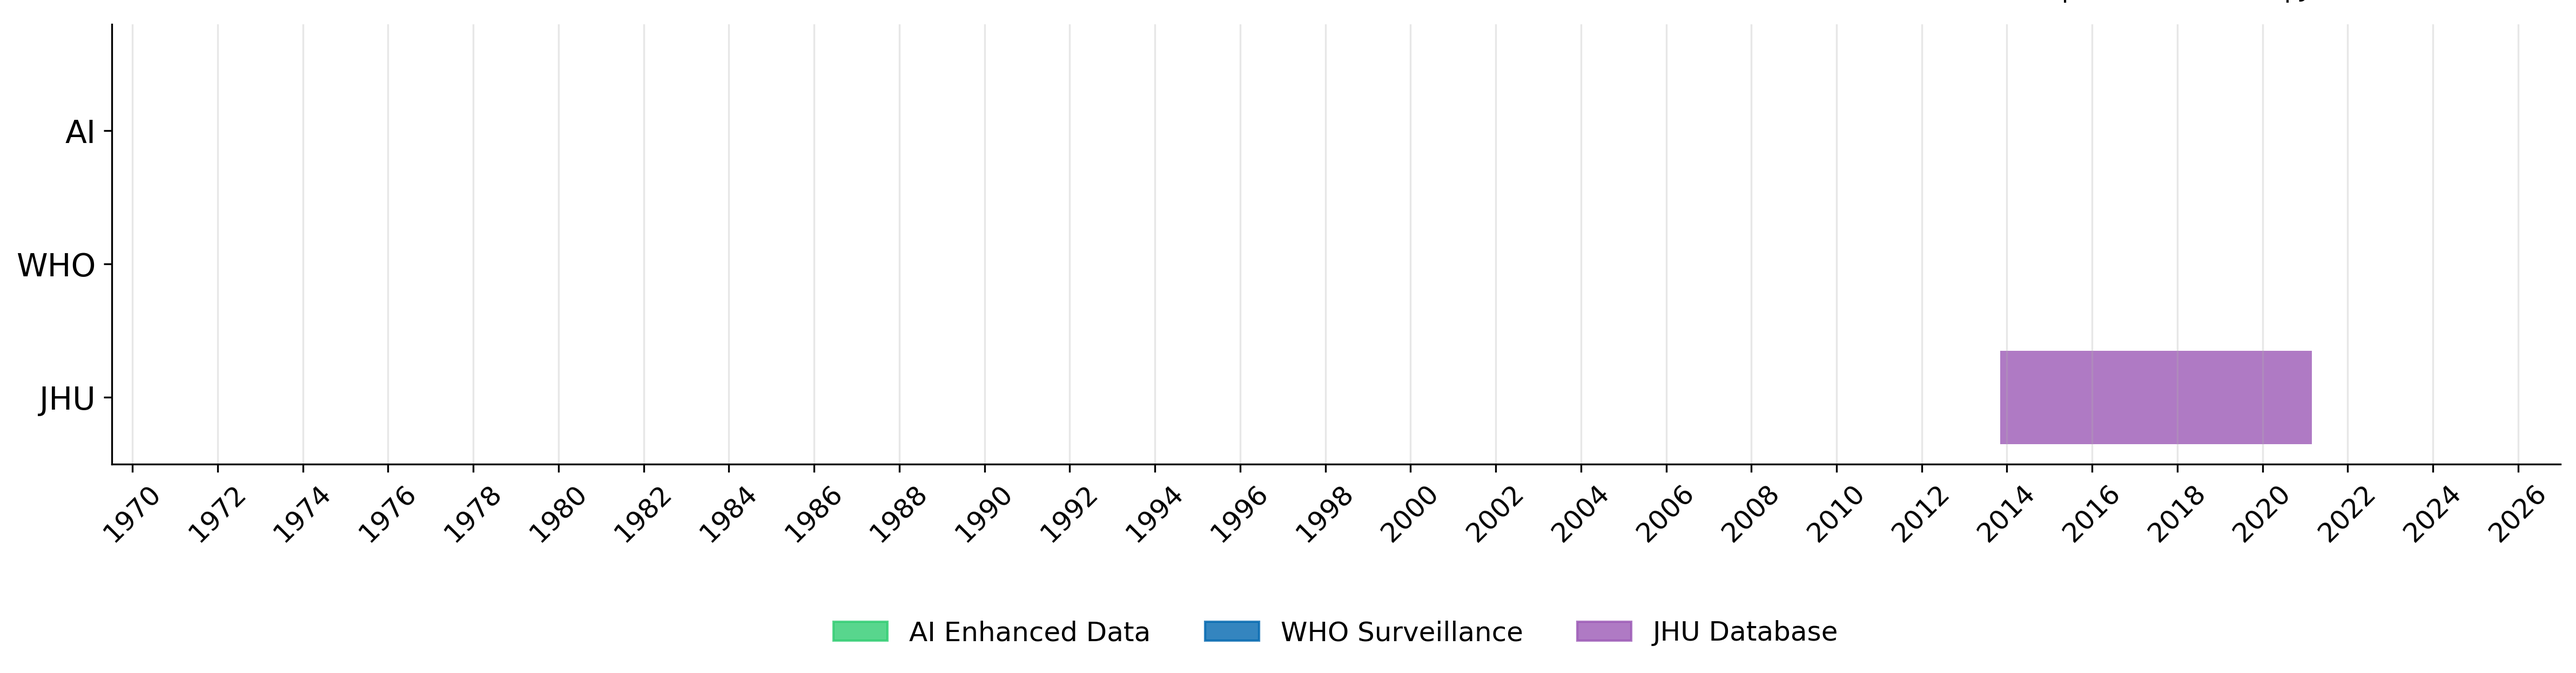
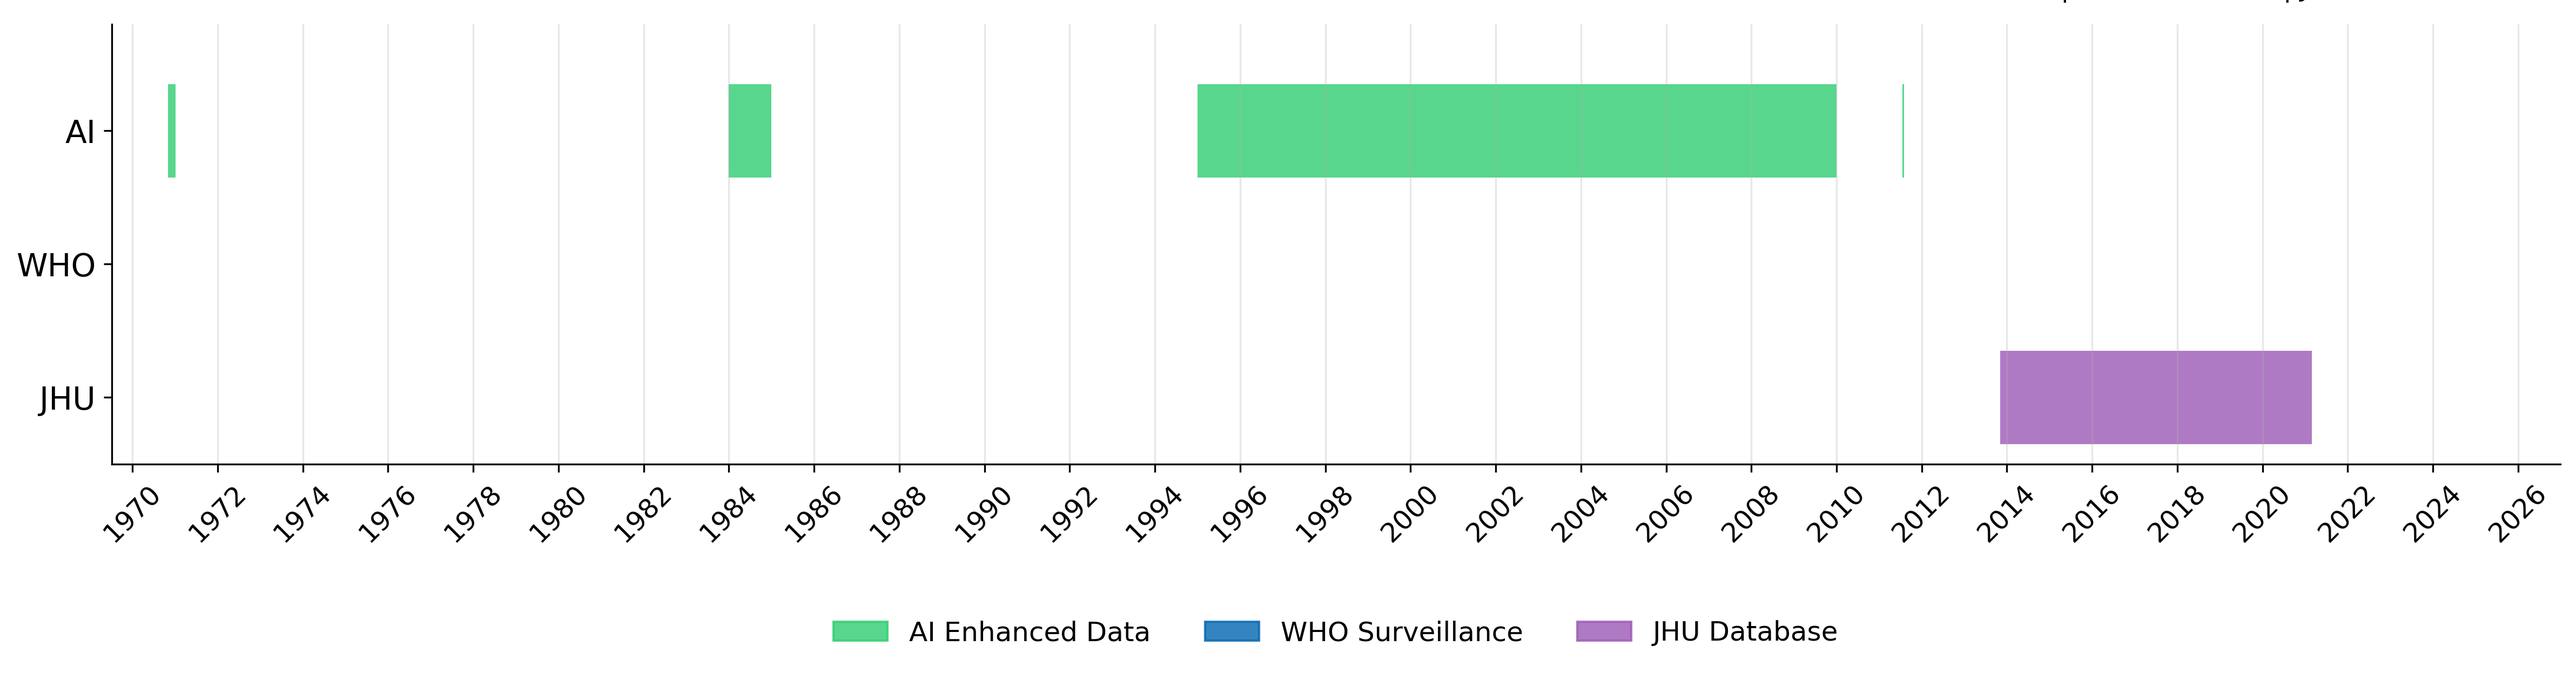
Auto-update dashboard data - 2025-07-23 23:01:34 - Generated with Claude Code

Changed region(s): [[0.4374, 0.1219, 0.7186, 0.2743], [0.2812, 0.1219, 0.3124, 0.2743]]

diff --git a/dashboard/dashboard.html b/dashboard/dashboard.html
@@ -1912,29 +1912,29 @@
                 "country": "Liberia",
                 "iso": "LBR",
                 "status": "PENDING",
-                "datetime": "2025-07-23 22:41:16",
-                "sources": 0,
-                "observations": 0,
-                "date_range": "",
-                "priority": "",
+                "datetime": "2025-07-23 23:00:51",
+                "sources": 8,
+                "observations": 11,
+                "date_range": "2002-2011",
+                "priority": "HIGH",
                 "execution_time": 0,
                 "queries": 0,
                 "yield_pct": 0.0,
-                "notes": "Agent 1 completed | Manual: No activity detected"
+                "notes": "Agent 1 completed; 11 data observations | Manual: No activity detected"
         },
         {
                 "country": "Mali",
                 "iso": "MLI",
                 "status": "PENDING",
-                "datetime": "2025-07-23 22:41:37",
-                "sources": 0,
-                "observations": 0,
-                "date_range": "",
-                "priority": "",
+                "datetime": "2025-07-23 22:57:23",
+                "sources": 9,
+                "observations": 15,
+                "date_range": "1970-2011",
+                "priority": "MEDIUM",
                 "execution_time": 0,
                 "queries": 0,
                 "yield_pct": 0.0,
-                "notes": "Agent 1 initialized - starting work | Manual: No activity detected"
+                "notes": "Agent 1 completed; 15 data observations | Manual: No activity detected"
         },
         {
                 "country": "Mozambique",
@@ -3007,8 +3007,8 @@ Gambia,GMB,106,0,0
 Guinea-Bissau,GNB,1979,0,327
 Equatorial Guinea,GNQ,2350,0,0
 Kenya,KEN,1339,125,320
-Liberia,LBR,0,0,431
-Mali,MLI,0,0,378
+Liberia,LBR,262,0,431
+Mali,MLI,846,0,378
 Mozambique,MOZ,0,125,287
 Mauritania,MRT,0,0,171
 Malawi,MWI,0,118,158
